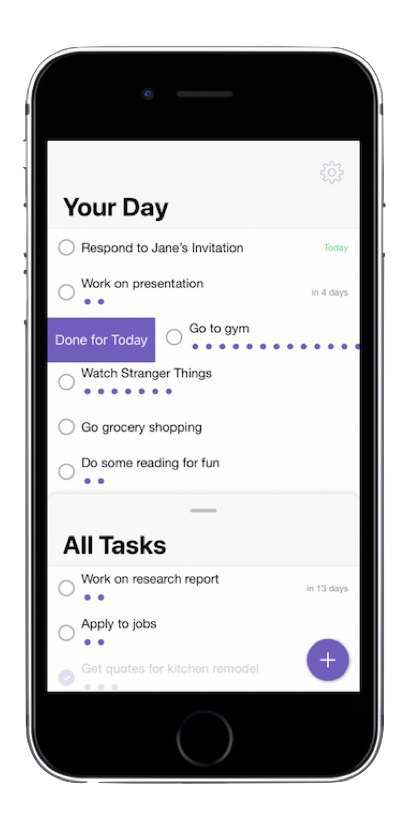
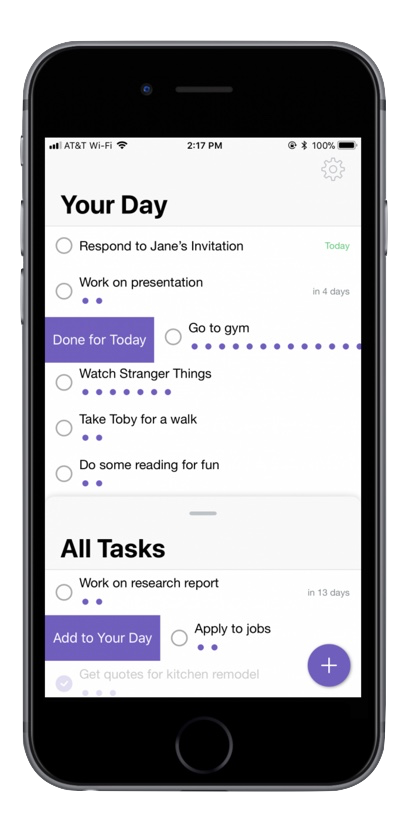
latest

diff --git a/index.html b/index.html
@@ -86,7 +86,7 @@ URI     : https://colorlib.com
                                 <span class="gradient-fill ti-3x mr-3"></span>
                                 <div class="media-body">
                                     <h4 class="card-title">Split Up Tasks</h4>
-                                    <p class="card-text">no more restrictions, feeling down if u dont finish everything in one shot, discouraged to always keep changing due dates and thinking youre not getting anything done</p>
+                                    <p class="card-text">Most to-do lists only reward you for finishing a task in one shot. With Progress, you decide how many shots you need to finish it.</p>
                                 </div>
                             </div>
                         </div>
@@ -99,7 +99,7 @@ URI     : https://colorlib.com
                                 <span class="gradient-fill ti-3x mr-3"></span>
                                 <div class="media-body">
                                     <h4 class="card-title">Track Your Progress</h4>
-                                    <p class="card-text">Plan wisely...see your progress and when things are due</p>
+                                    <p class="card-text">With bold dots, you can easily track your progress on a task and feel accomplished every step of the way.</p>
                                 </div>
                             </div>
                         </div>
@@ -112,7 +112,7 @@ URI     : https://colorlib.com
                                 <span class="gradient-fill ti-3x mr-3"></span>
                                 <div class="media-body">
                                     <h4 class="card-title">Stay Focused</h4>
-                                    <p class="card-text">no unnecessary features, etc. </p>
+                                    <p class="card-text">Progress leaves out all the unnecessary features that usually make to-do list apps intimidating and distracting.</p>
                                 </div>
                             </div>
                         </div>
@@ -141,21 +141,28 @@ URI     : https://colorlib.com
                             <div class="circle-icon mr-4">1</div>
                             <div class="media-body">
                                 <h5>Create a Task</h5>
-                                <p>Lorem ipsum dolor sit amet, consectetur adipiscing elit. Integer rutrum, urna eu pellentesque pretium obcaecati vel exercitationem </p>
+                                <p>Tap the plus button in the bottom right to create a task. Add a deadline if you need to.</p>
                             </div>
                         </li>
                         <li class="media my-4">
                             <div class="circle-icon mr-4">2</div>
                             <div class="media-body">
                                 <h5>Add it to Your Day</h5>
-                                <p>Lorem ipsum dolor sit amet, consectetur adipiscing elit. Integer rutrum, urna eu pellentesque pretium obcaecati vel exercitationem eveniet</p>
+                                <p> Your Day holds all the tasks you are planning to work on today. When you want to work on a task, slide right on it to add it to Your Day.</p>
                             </div>
                         </li>
                         <li class="media">
                             <div class="circle-icon mr-4">3</div>
                             <div class="media-body">
                                 <h5>Make Progress</h5>
-                                <p>Lorem ipsum dolor sit amet, consectetur adipiscing elit. Integer rutrum, urna eu pellentesque pretium obcaecati vel exercitationem </p>
+                                <p>When you're done working a task for the day, slide right on it again. Each time you do this, a dot appears underneath the task to indicate your progress.</p>
+                            </div>
+                        </li>
+                         <li class="media">
+                            <div class="circle-icon mr-4">4</div>
+                            <div class="media-body">
+                                <h5>Reach Your Goals</h5>
+                                <p>When you complete a task, just tap the checkbox.</p>
                             </div>
                         </li>
                     </ul>
@@ -178,7 +185,7 @@ URI     : https://colorlib.com
                 <h6>See Progress In Action</h6>
             </div>
         <div class="container2">
-            <iframe width="560" height="315" src="https://www.youtube.com/embed/ox7RsX1Ee34" frameborder="0" gesture="media" allow="encrypted-media" allowfullscreen></iframe>
+           <iframe src="https://player.vimeo.com/video/249013731" width="640" height="360" frameborder="0" webkitallowfullscreen mozallowfullscreen allowfullscreen></iframe>
         </div>
     </div>
     <!-- // end .section -->
